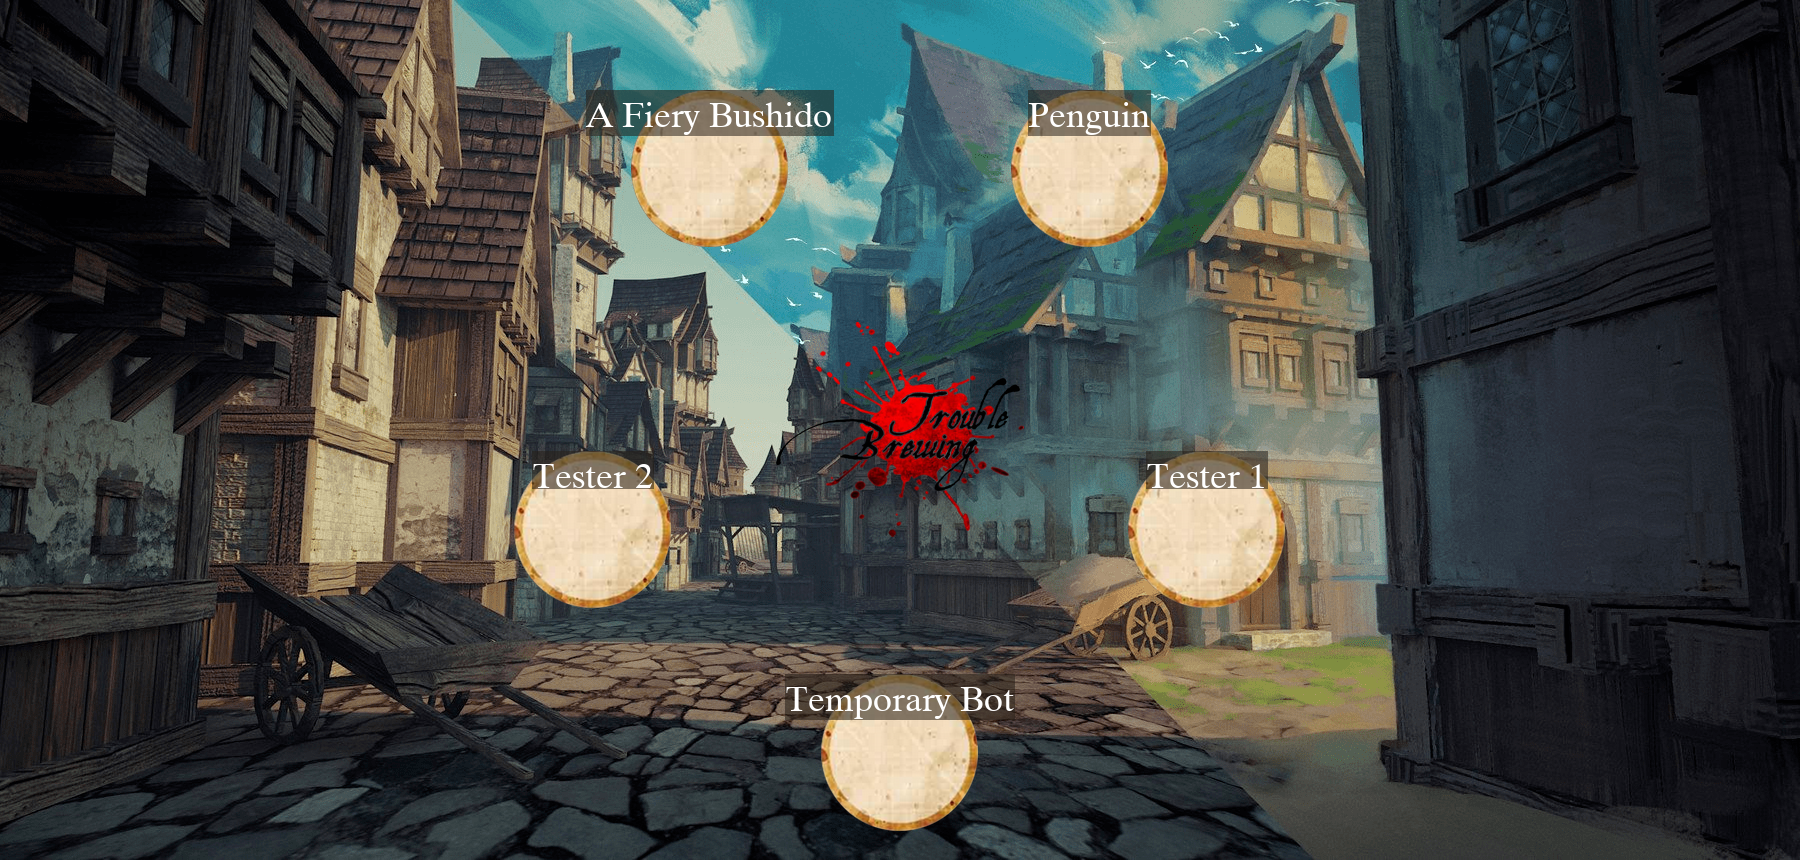
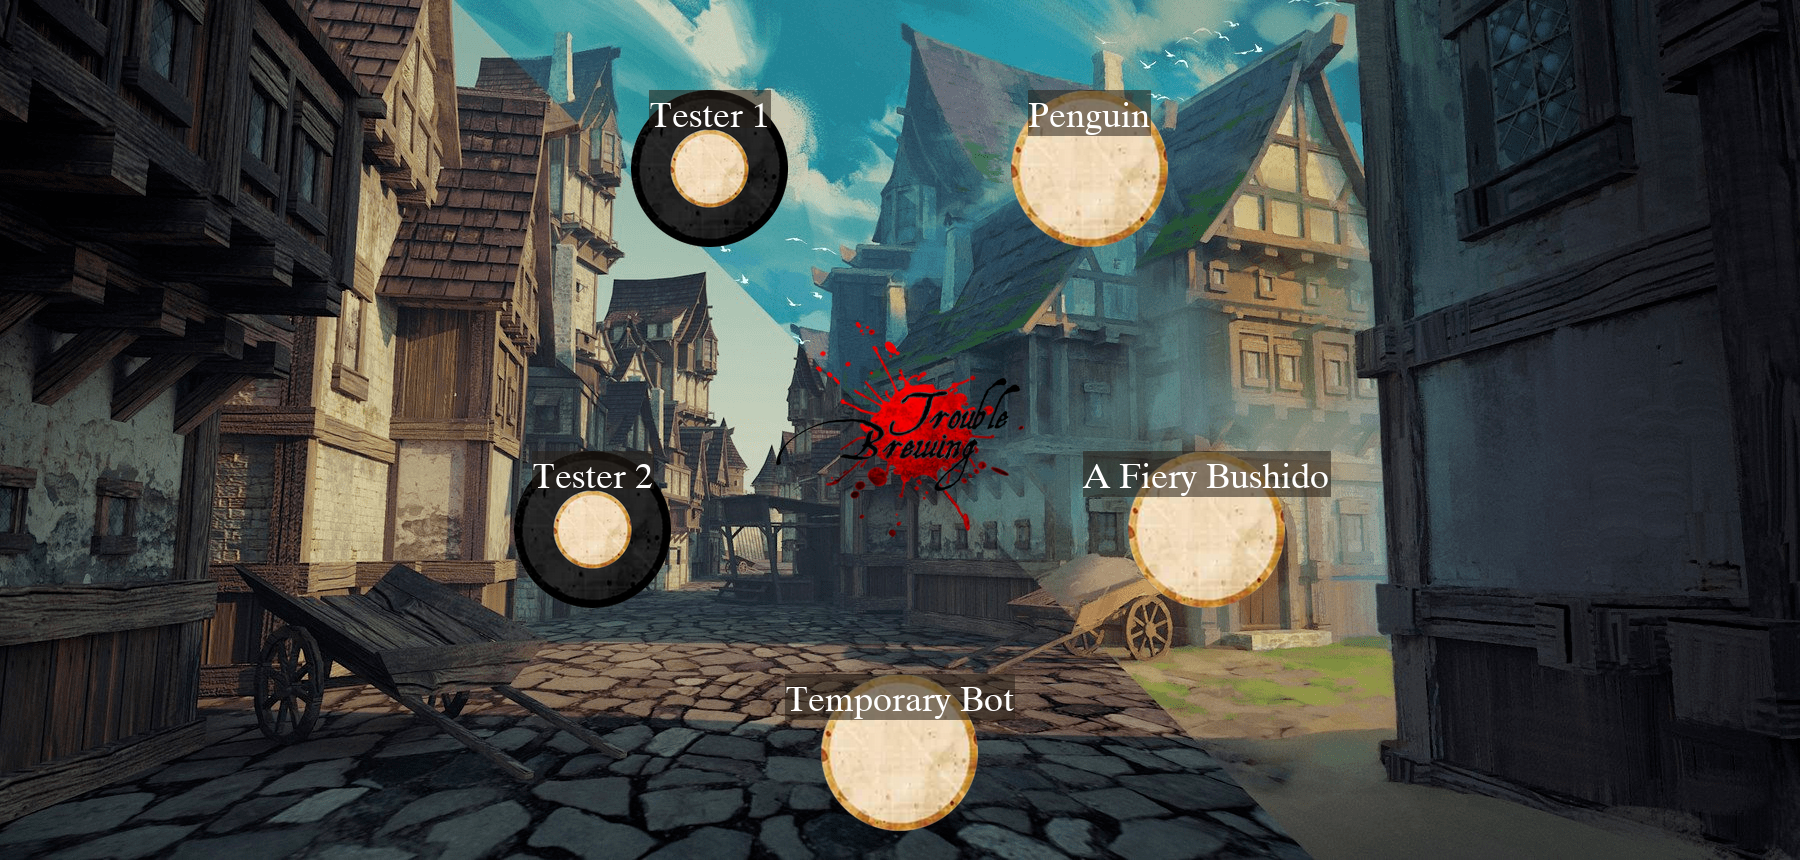
completed day loop

Changed region(s): [[0.3111, 0.0907, 0.4667, 0.3023], [0.28, 0.514, 0.3733, 0.7256], [0.5911, 0.514, 0.7467, 0.6047]]

diff --git a/botc/gameloops.py b/botc/gameloops.py
@@ -29,6 +29,11 @@ CARD_LYNCH = int(CARD_LYNCH, 16)
 CARD_NO_LYNCH = Config["colors"]["CARD_NO_LYNCH"]
 CARD_NO_LYNCH = int(CARD_NO_LYNCH, 16)
 
+# Config
+Config.read("config.INI")
+
+PREFIX = Config["settings"]["PREFIX"]
+
 with open('botc/game_text.json') as json_file: 
     documentation = json.load(json_file)
     clockface = documentation["images"]["clockface"]
@@ -52,11 +57,17 @@ with open('botc/game_text.json') as json_file:
     nomination_intro = documentation["gameplay"]["nomination_intro"]
     vote_summary = documentation["gameplay"]["vote_summary"]
     nomination_short = documentation["gameplay"]["nomination_short"]
+    nominations_open = documentation["gameplay"]["nominations_open"]
+    nomination_countdown = documentation["gameplay"]["nomination_countdown"]
+    day_over_soon = documentation["gameplay"]["day_over_soon"]
+    no_execution = documentation["gameplay"]["no_execution"]
+    execution = documentation["gameplay"]["execution"]
     copyrights_str = documentation["misc"]["copyrights"]
 
 global botc_game_obj
 
 
+@tasks.loop(count = 1)
 async def nomination_loop(game, nominator, nominated):
     """One round of nomination. Iterate through all players with available 
     votes and register votes using reactions.
@@ -355,6 +366,12 @@ async def dawn_loop(game):
         await asyncio.sleep(INCREMENT)
 
 
+@tasks.loop(count = 1)
+async def base_day_loop(duration):
+    """The base day length during which it's not possible to nominate"""
+    await asyncio.sleep(duration)
+
+
 async def day_loop(game):
     """Day loop"""
     # Start day
@@ -363,8 +380,54 @@ async def day_loop(game):
     # base_day_length = math.sqrt(game.nb_players)
     # base_day_length = math.ceil(base_day_length)
     # base_day_length = base_day_length * 60
-    base_day_length = 500
+    base_day_length = 15
+    base_day_loop.start(base_day_length)
     await asyncio.sleep(base_day_length)
+
+    # Nominations are open
+    msg = botutils.BotEmoji.grimoire + " " + nominations_open.format(PREFIX)
+    await botutils.send_lobby(msg)
+
+    timers = [90, 60, 45, 30, 20, 15, 15, 15, 15, 15, 15, 15, 15, 15, 15]
+
+    for timer in timers:
+
+        msg = botutils.BotEmoji.grimoire + " " + nomination_countdown.format(timer)
+        await botutils.send_lobby(msg)
+
+        countdown = timer
+        count = 0
+
+        while not nomination_loop.is_running():
+
+            count += 1
+            await asyncio.sleep(1)
+
+            # Give a time remaining reminder
+            remaining_time = countdown - count
+            if remaining_time == 10:
+                msg = botutils.BotEmoji.hourglass + " " + day_over_soon
+                await botutils.send_lobby(msg)
+
+            # Time has run out
+            if count >= countdown:
+                if game.chopping_block:
+                    if game.chopping_block.player_about_to_die:
+                        await game.chopping_block.player_about_to_die.exec_real_death()
+                        msg = botutils.BotEmoji.grimoire + " " + execution.format(
+                            game.chopping_block.player_about_to_die.game_nametag, 
+                            game.chopping_block.nb_votes
+                        )
+                    else:
+                        msg = botutils.BotEmoji.grimoire + " " + no_execution
+                    await botutils.send_lobby(msg)
+                else:
+                    msg = botutils.BotEmoji.grimoire + " " + no_execution
+                    await botutils.send_lobby(msg)
+                return
+
+        while nomination_loop.is_running():
+            await asyncio.sleep(1)
 
 
 async def before_night(game):

diff --git a/botc/commands/townhall/stats.py b/botc/commands/townhall/stats.py
@@ -66,9 +66,9 @@ class Stats(commands.Cog, name = "༺ 𝕭𝖑𝖔𝖔𝖉 𝖔𝖓 𝖙𝖍𝖊
         msg += current_phase.format(fancy.bold(game.current_phase.value))
         msg += "\n"
 
-        if globvars.master_state.game.current_phase == Phase.day:
+        if game.current_phase == Phase.day:
 
-            chopping_block = globvars.master_state.game.chopping_block
+            chopping_block = game.chopping_block
             nb_total_players = len(game.sitting_order)
             nb_alive_players = len([player for player in game.sitting_order if player.is_apparently_alive()])
             nb_available_votes = len([player for player in game.sitting_order if player.has_vote()])

diff --git a/main.py b/main.py
@@ -14,12 +14,11 @@ affiliated with them in any way.
 # TODO
 # Night interactions (left from investigator)
 # Investigator minion bug fix
-# Lore/accompaniment strings for phase announcements
+# Execution string in night announcement. Night death string in day announcement.
 # Master states stability and inter-game state clearing
 # Winning conditions and end game message
-# Full day phase cycle
 # Spy grimoire reminder tokens
-# Better logging with embeds
+# Better logging system
 # Center text for townsquare
 
 

diff --git a/botc/Game.py b/botc/Game.py
@@ -24,7 +24,7 @@ from .gamemodes.troublebrewing.Saint import Saint
 from .gamemodes.troublebrewing._utils import TroubleBrewing
 from .gamemodes.Gamemode import Gamemode
 from .RoleGuide import RoleGuide
-from .gameloops import master_game_loop
+from .gameloops import master_game_loop, nomination_loop
 from models import GameMeta
 
 Config = configparser.ConfigParser()

diff --git a/botutils/emoji.py b/botutils/emoji.py
@@ -24,6 +24,8 @@ class BotEmoji:
     people = emojis["people"]
     votes = emojis["votes"]
     alive = emojis["alive"]
+    grimoire = emojis["grimoire"]
+    hourglass = emojis["hourglass"]
 
     # Unicode emojis
     skull = emojis["skull"]

diff --git a/botc/commands/townhall/__init__.py b/botc/commands/townhall/__init__.py
@@ -1,6 +1,8 @@
 from .nominate import Nominate
 from .stats import Stats
+from .townsquare import Townsquare
 
 def setup(client):
     client.add_cog(Nominate(client))
     client.add_cog(Stats(client))
+    client.add_cog(Townsquare(client))
